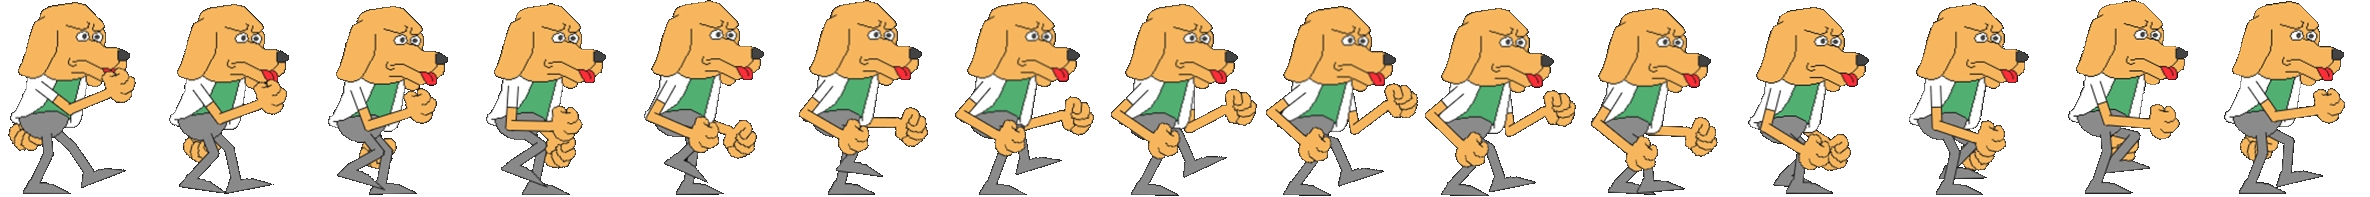
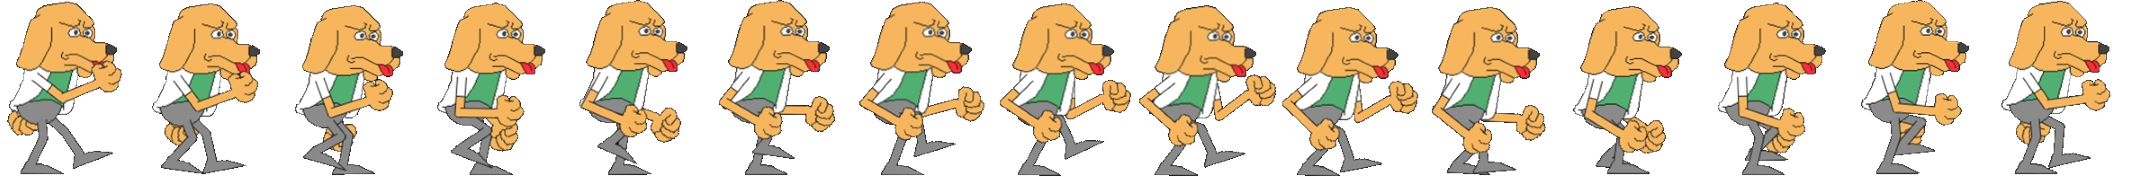
fixes image size for ani walk and idle

diff --git a/game/game.js b/game/game.js
@@ -1,5 +1,8 @@
 const groundY = 400;
 
+//walk height: 197
+// jump height: 198
+
 let figureImage;
 let figure;
 
@@ -17,11 +20,11 @@ function preload() {
 }
 
 function setup() {
-  const walkImages = Sprite.getSpriteImages(15, walkImage, 158, 197);
-  const idleImages = Sprite.getSpriteImages(8, idleImage, 204, 176);
-  const jumpImages = Sprite.getSpriteImages(2, jumpImage, 122, 198)
-  dog = new Sprite(idleImages, walkImages, jumpImages, 0.4, 0, groundY + 112);
-  figure = new Sprite([figureImage], [figureImage], [figureImage], 0, 200, groundY)
+  const walkImages = Sprite.getSpriteImages(15, walkImage, 142, 177);
+  const idleImages = Sprite.getSpriteImages(8, idleImage, 204, 196);
+  const jumpImages = Sprite.getSpriteImages(2, jumpImage, 122, 198);
+  dog = new Sprite(idleImages, walkImages, jumpImages, 0.4, 0, groundY);
+  figure = new Sprite([figureImage], [figureImage], [figureImage], 0, 200, groundY - 100)
 
   createCanvas(windowWidth, windowHeight);
   background(0);
@@ -30,7 +33,7 @@ function setup() {
 function draw() {
   background(0);
   stroke(100, 200, 100);
-  line(0, groundY + figureImage.height, windowWidth, groundY + figureImage.height);
+  line(0, groundY + 200, windowWidth, groundY + 200);
 
   figure.show();
   figure.animate();
